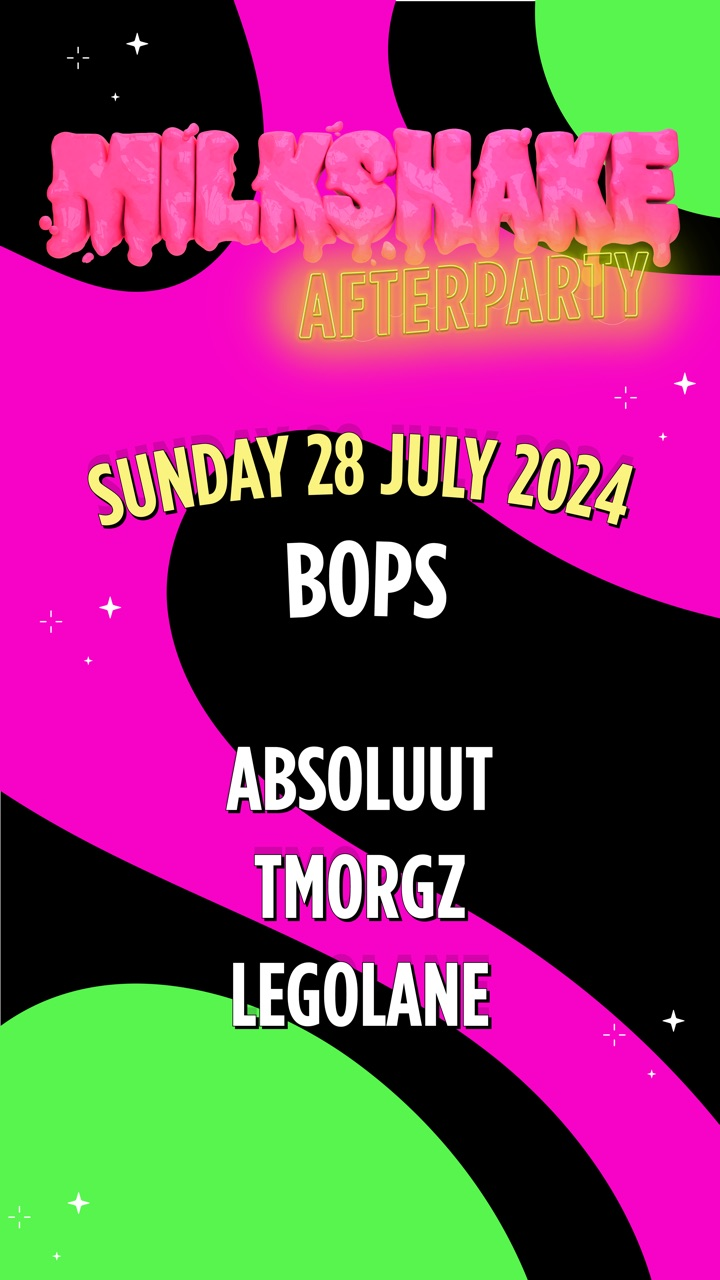
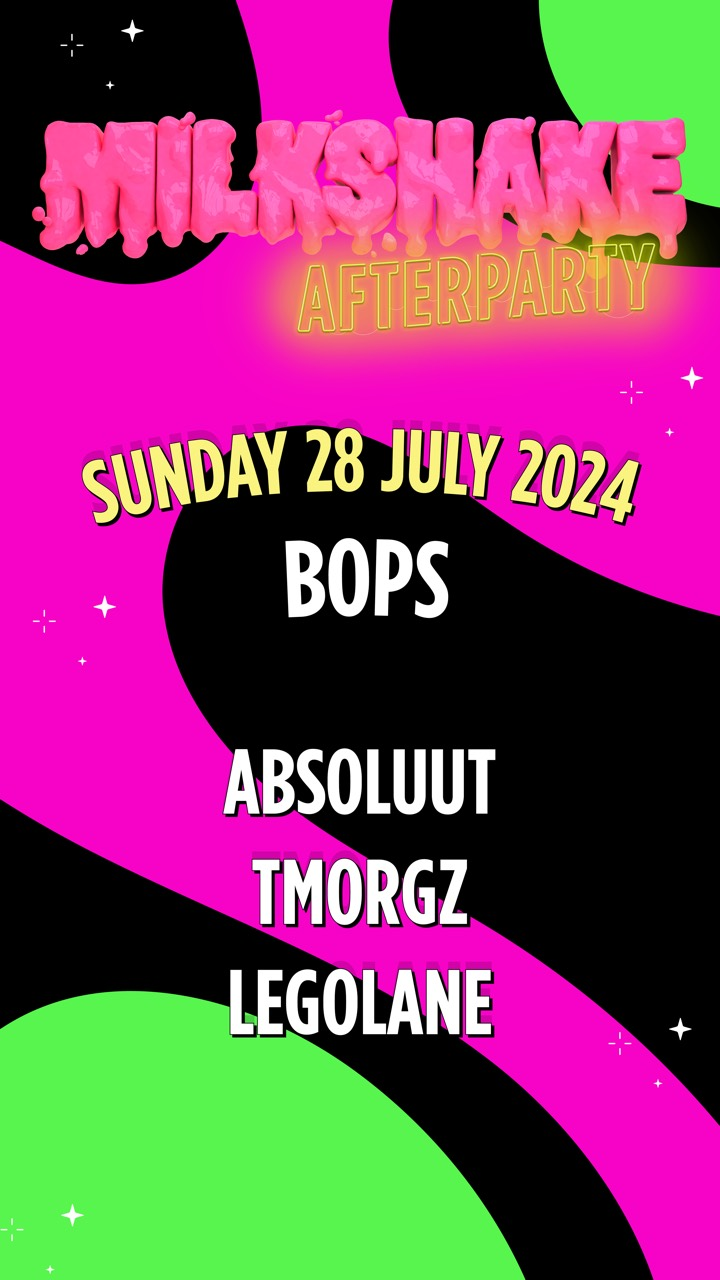
BOPS case: Milkshake afterparty flyer cropped without the light edge

diff --git a/it/work/bops/index.html b/it/work/bops/index.html
@@ -129,7 +129,7 @@
         <figure style="--a:1"><img loading="lazy" decoding="async" width="720" height="720" src="/assets/img/work/bops/flyer-2021-edition-1.jpg?v=2" alt="Storia Instagram per la prima edizione di BOPS il 3 ottobre 2021"><figcaption>Prima edizione con biglietti</figcaption></figure>
         <figure style="--a:1"><img loading="lazy" decoding="async" width="720" height="720" src="/assets/img/work/bops/flyer-superflirt.jpg" alt="Grafica BOPS per il palco al Superflirt Festival"><figcaption>Primo palco a un festival</figcaption></figure>
         <span class="cs-flyers-break" aria-hidden="true"></span>
-        <figure style="--a:0.5625"><img loading="lazy" decoding="async" width="720" height="1280" src="/assets/img/work/bops/flyer-2024-milkshake-afters.jpg" alt="Line-up dell’afterparty del Milkshake di BOPS il 28 luglio 2024"><figcaption>Afterparty del Milkshake</figcaption></figure>
+        <figure style="--a:0.5625"><img loading="lazy" decoding="async" width="720" height="1280" src="/assets/img/work/bops/flyer-2024-milkshake-afters.jpg?v=2" alt="Line-up dell’afterparty del Milkshake di BOPS il 28 luglio 2024"><figcaption>Afterparty del Milkshake</figcaption></figure>
         <figure style="--a:0.8"><img loading="lazy" decoding="async" width="720" height="900" src="/assets/img/work/bops/flyer-2024-new-style.jpg" alt="Flyer BOPS per il 13 dicembre 2024 nel nuovo stile grafico"><figcaption>Nuovo design di Michel Walpot</figcaption></figure>
         <figure style="--a:0.75"><img loading="lazy" decoding="async" width="720" height="960" src="/assets/img/work/bops/flyer-2026-kiki.jpg" alt="Line-up di BOPS × KIKI il 31 luglio 2026 con Hollywood Tramp, Absoluut e TMORGZ al The Other Side"><figcaption>Edizione WorldPride con KIKI</figcaption></figure>
       </div>

diff --git a/nl/work/bops/index.html b/nl/work/bops/index.html
@@ -129,7 +129,7 @@
         <figure style="--a:1"><img loading="lazy" decoding="async" width="720" height="720" src="/assets/img/work/bops/flyer-2021-edition-1.jpg?v=2" alt="Instagramstory voor de eerste BOPS-editie op 3 oktober 2021"><figcaption>Eerste editie met tickets</figcaption></figure>
         <figure style="--a:1"><img loading="lazy" decoding="async" width="720" height="720" src="/assets/img/work/bops/flyer-superflirt.jpg" alt="BOPS-artwork voor het podium op Superflirt Festival"><figcaption>Eerste festivalpodium</figcaption></figure>
         <span class="cs-flyers-break" aria-hidden="true"></span>
-        <figure style="--a:0.5625"><img loading="lazy" decoding="async" width="720" height="1280" src="/assets/img/work/bops/flyer-2024-milkshake-afters.jpg" alt="Line-up van de Milkshake-afterparty door BOPS op 28 juli 2024"><figcaption>Milkshake-afterparty</figcaption></figure>
+        <figure style="--a:0.5625"><img loading="lazy" decoding="async" width="720" height="1280" src="/assets/img/work/bops/flyer-2024-milkshake-afters.jpg?v=2" alt="Line-up van de Milkshake-afterparty door BOPS op 28 juli 2024"><figcaption>Milkshake-afterparty</figcaption></figure>
         <figure style="--a:0.8"><img loading="lazy" decoding="async" width="720" height="900" src="/assets/img/work/bops/flyer-2024-new-style.jpg" alt="BOPS-flyer voor 13 december 2024 in de nieuwe grafische stijl"><figcaption>Nieuw ontwerp door Michel Walpot</figcaption></figure>
         <figure style="--a:0.75"><img loading="lazy" decoding="async" width="720" height="960" src="/assets/img/work/bops/flyer-2026-kiki.jpg" alt="Line-up van BOPS × KIKI op 31 juli 2026 met Hollywood Tramp, Absoluut en TMORGZ in The Other Side"><figcaption>WorldPride-editie met KIKI</figcaption></figure>
       </div>

diff --git a/work/bops/index.html b/work/bops/index.html
@@ -134,7 +134,7 @@
         <figure style="--a:1"><img loading="lazy" decoding="async" width="720" height="720" src="/assets/img/work/bops/flyer-2021-edition-1.jpg?v=2" alt="Instagram story for the first BOPS edition on 3 October 2021"><figcaption>First Ticketed Edition</figcaption></figure>
         <figure style="--a:1"><img loading="lazy" decoding="async" width="720" height="720" src="/assets/img/work/bops/flyer-superflirt.jpg" alt="BOPS artwork for the Superflirt Festival stage"><figcaption>First Festival Stage</figcaption></figure>
         <span class="cs-flyers-break" aria-hidden="true"></span>
-        <figure style="--a:0.5625"><img loading="lazy" decoding="async" width="720" height="1280" src="/assets/img/work/bops/flyer-2024-milkshake-afters.jpg" alt="Line-up for the Milkshake afterparty by BOPS on 28 July 2024"><figcaption>Milkshake Afterparty</figcaption></figure>
+        <figure style="--a:0.5625"><img loading="lazy" decoding="async" width="720" height="1280" src="/assets/img/work/bops/flyer-2024-milkshake-afters.jpg?v=2" alt="Line-up for the Milkshake afterparty by BOPS on 28 July 2024"><figcaption>Milkshake Afterparty</figcaption></figure>
         <figure style="--a:0.8"><img loading="lazy" decoding="async" width="720" height="900" src="/assets/img/work/bops/flyer-2024-new-style.jpg" alt="BOPS flyer for 13 December 2024 in the new graphic style"><figcaption>New Design by Michel Walpot</figcaption></figure>
         <figure style="--a:0.75"><img loading="lazy" decoding="async" width="720" height="960" src="/assets/img/work/bops/flyer-2026-kiki.jpg" alt="BOPS × KIKI line-up for 31 July 2026 with Hollywood Tramp, Absoluut and TMORGZ at The Other Side"><figcaption>WorldPride Edition with KIKI</figcaption></figure>
       </div>
